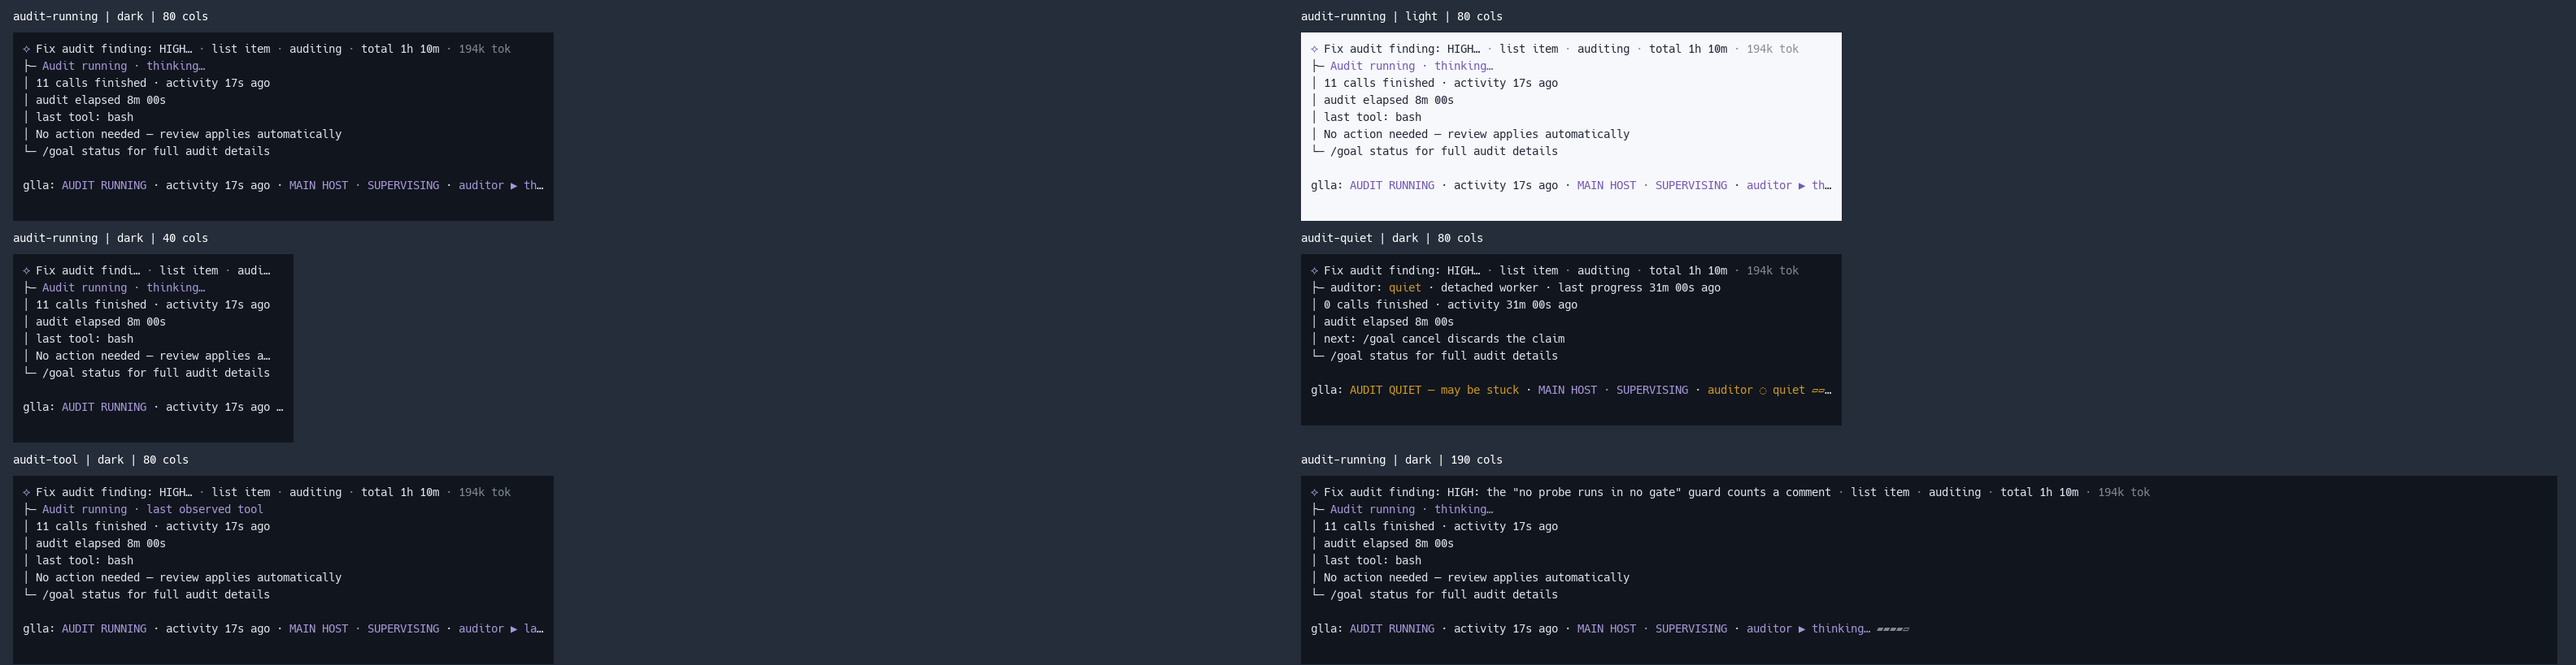
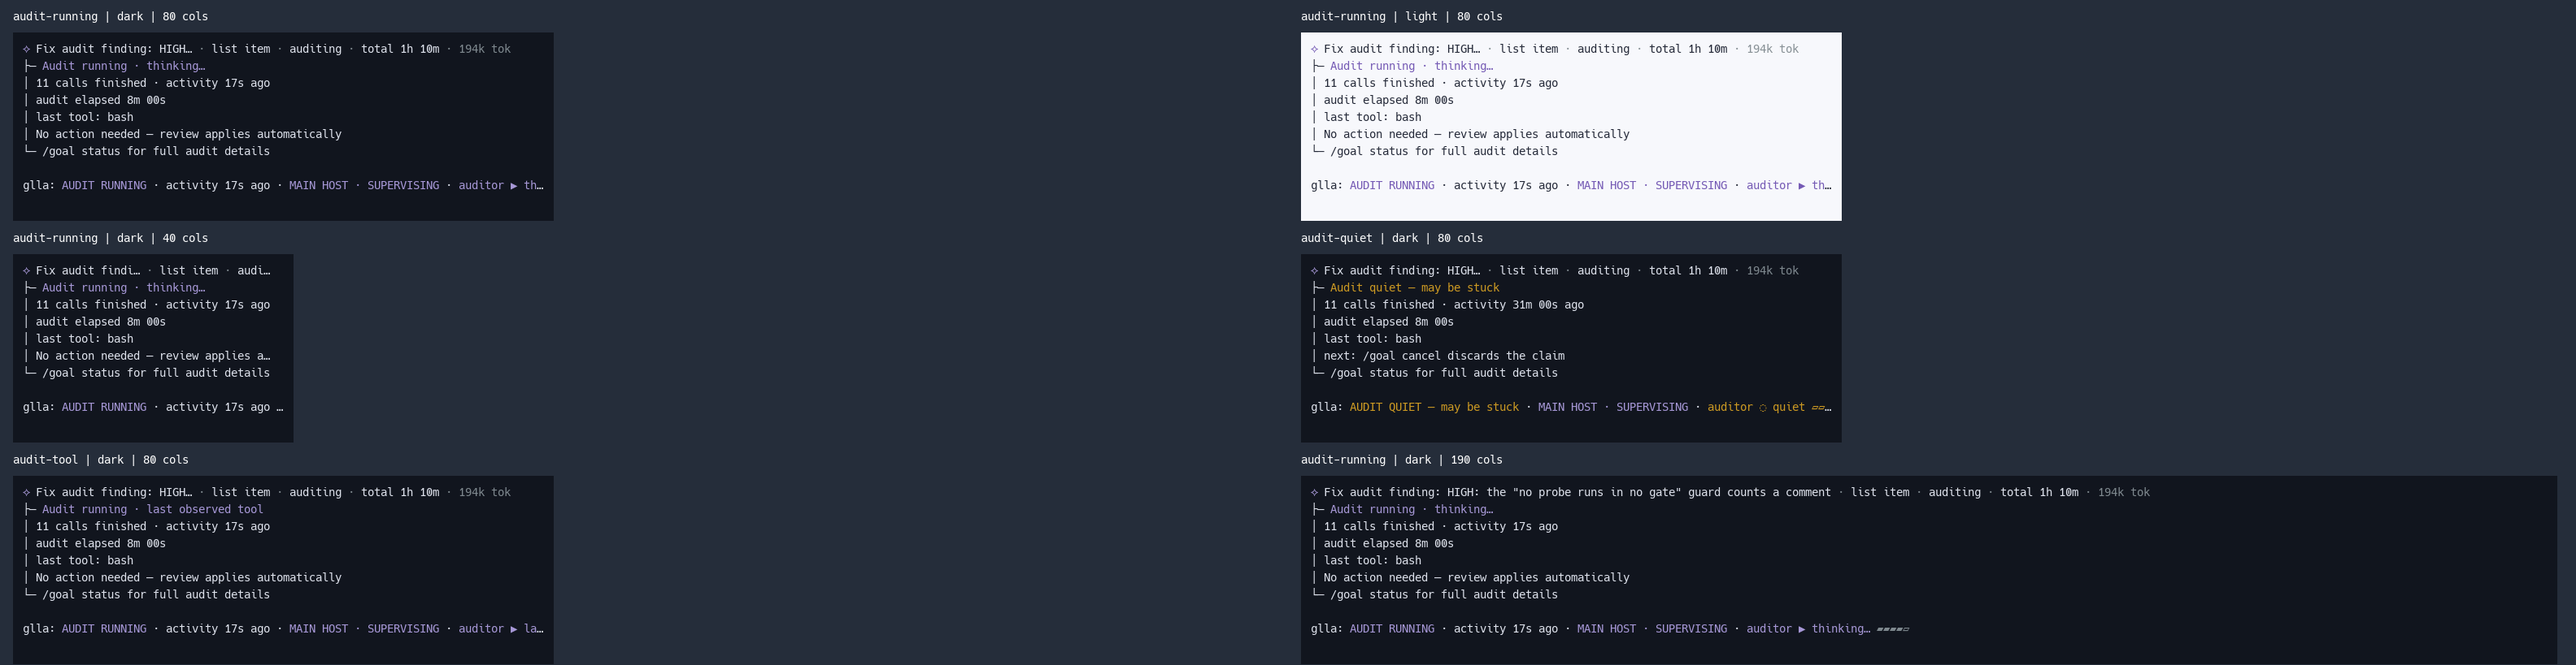
6 file(s) in audit,extensions,tests DELTA:+65/-15 | EXT:ts,json,log TEST:7 BIN:1 NEW:audit-glance-2026-10-03/clarity-final.log

Changed region(s): [[0.5, 0.4274, 0.7188, 0.6716]]

diff --git a/tests/evidence/render-audit-glance.ts b/tests/evidence/render-audit-glance.ts
@@ -15,8 +15,8 @@ for (const appearance of ["dark", "light"]) {
   for (const width of [40, 80, 190]) {
     for (const [key, progress] of [
       ["audit-running", audit],
-      ["audit-quiet", { ...audit, lastActivityAt: now - 31 * 60000, toolCalls: [] }],
-      ["audit-tool", { ...audit, phase: "tool_executing", currentTool: "bash", currentToolStartedAt: now - 30000, toolTimeoutMs: 1200000 }],
+      ["audit-quiet", { ...audit, lastActivityAt: now - 31 * 60000, toolCalls: audit.toolCalls!.map(call => ({ ...call, finishedAt: now - 31 * 60000 })) }],
+      ["audit-tool", { ...audit, phase: "tool_executing", currentTool: "bash", currentToolStartedAt: now - 2000, toolTimeoutMs: 1200000 }],
     ] as [string, AuditDisplayProgress][]) {
       const extras = { compactAuditCard: true };
       frames.push({ key, theme: appearance, width, height: 10, lines: [...buildWidgetLines({ goal, list: [] }, progress, now, theme, width, extras)!, "", buildStatusText({ goal, list: [] }, progress, now, theme, extras, width)!] });

diff --git a/extensions/goal-loop-display.ts b/extensions/goal-loop-display.ts
@@ -2180,7 +2180,7 @@ function goalLines(g: Goal, state: State, audit: AuditDisplayProgress | null | u
       const action = block.lead.find(line => line.startsWith("│ next:"));
       // No history or model plaques in the glance card: Pi clips its tail.
       // Keep state, real evidence and the user action ahead of all details.
-      const phaseLine = needsRecovery ? (phase === "quiet" ? block.lead[0]!.replace("auditor: quiet", "auditor: quiet — may be stuck") : block.lead[0]!)
+      const phaseLine = needsRecovery ? (phase === "quiet" ? `├─ ${paint(theme, "warning", "Audit quiet — may be stuck")}` : block.lead[0]!)
         : `├─ ${paint(theme, "accent", phase === "running" ? `Audit running · ${auditorProgressPhaseLabel(audit) ?? auditorPhaseForDisplay(audit, phase, auditorHasLiveEvidence(audit, phase, now))}` : phase === "queued" ? "Audit starting" : "Audit review pending")}`;
       const toolLine = block.lead.find(line => /^│ (?:last )?tool:/.test(line));
       return [head, phaseLine,

diff --git a/tests/audit-glance-clarity.test.ts b/tests/audit-glance-clarity.test.ts
@@ -62,3 +62,10 @@ test("starting audit distinguishes waiting for first activity from recent activi
   assert.match(status, /no worker activity yet/);
   assert.doesNotMatch(status, /activity 0s ago/);
 });
+
+test("current tool keeps elapsed time and timeout budget in the compact card", () => {
+  const progress: AuditDisplayProgress = { ...audit, phase: "tool_executing", currentTool: "bash", currentToolStartedAt: now - 2000, toolTimeoutMs: 1200000 };
+  const text = buildWidgetLines({ goal, list: [] }, progress, now, undefined, 80, extras)!.join("\n");
+  assert.match(text, /tool: bash · 2s · 20m 00s budget/);
+  assert.doesNotMatch(text, /last tool: bash/);
+});
